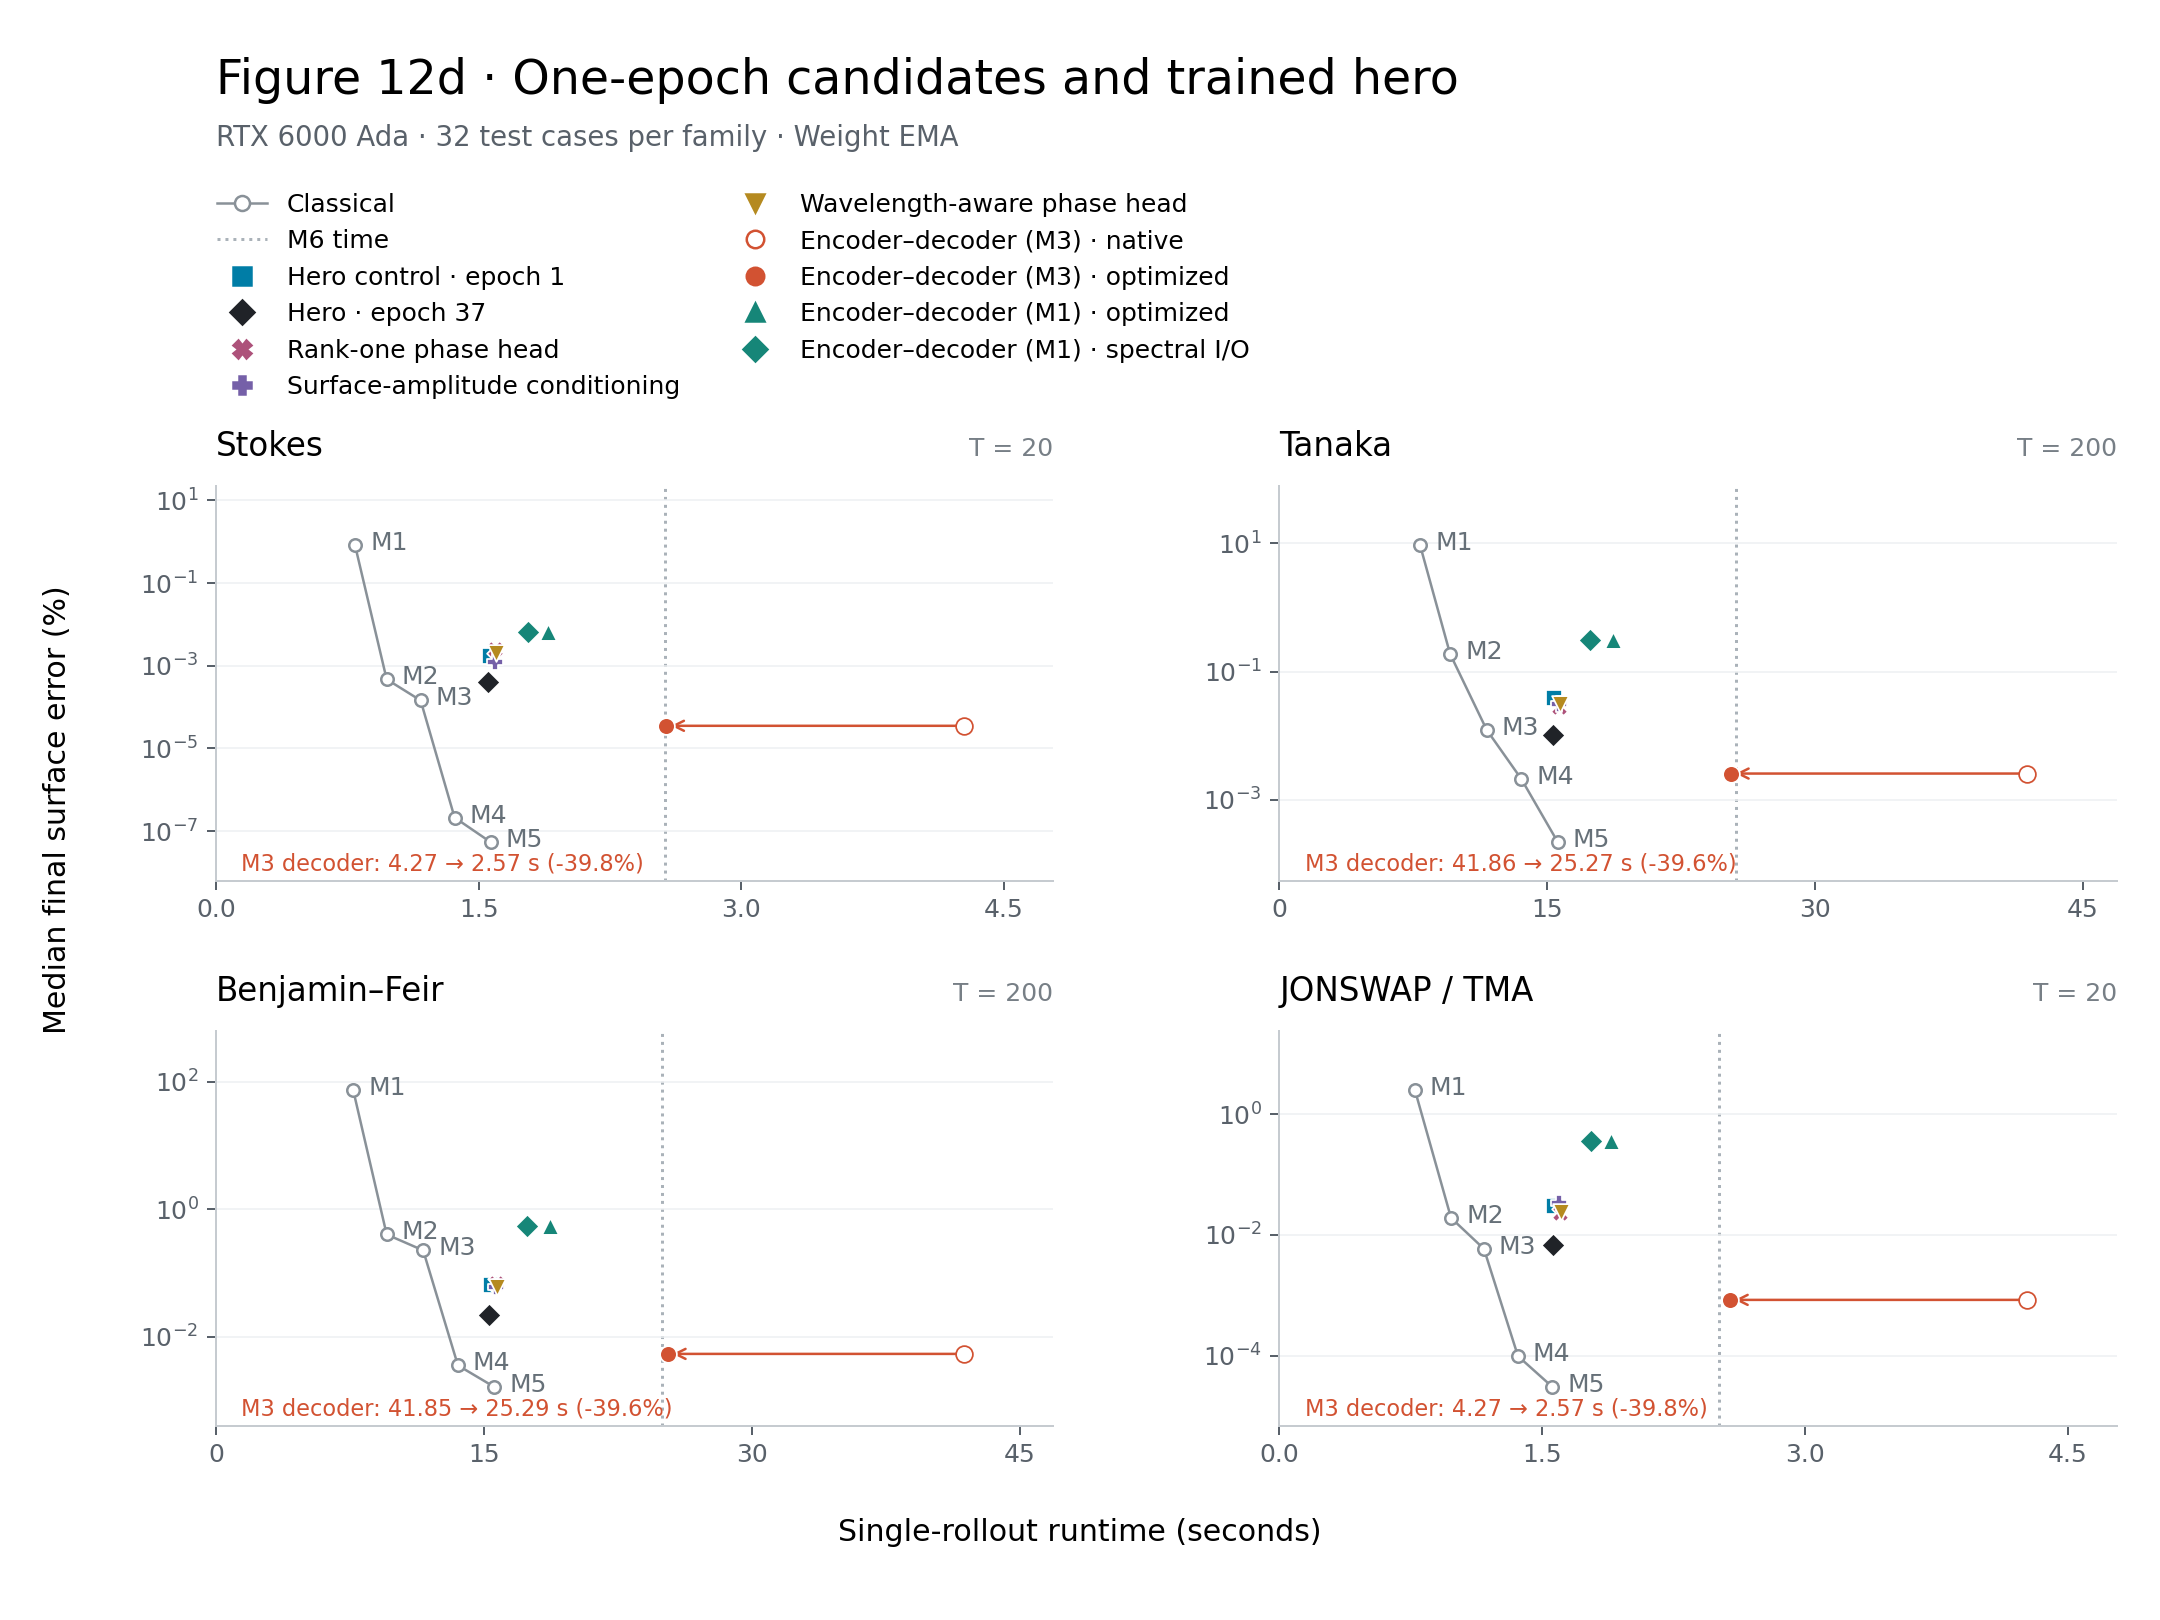
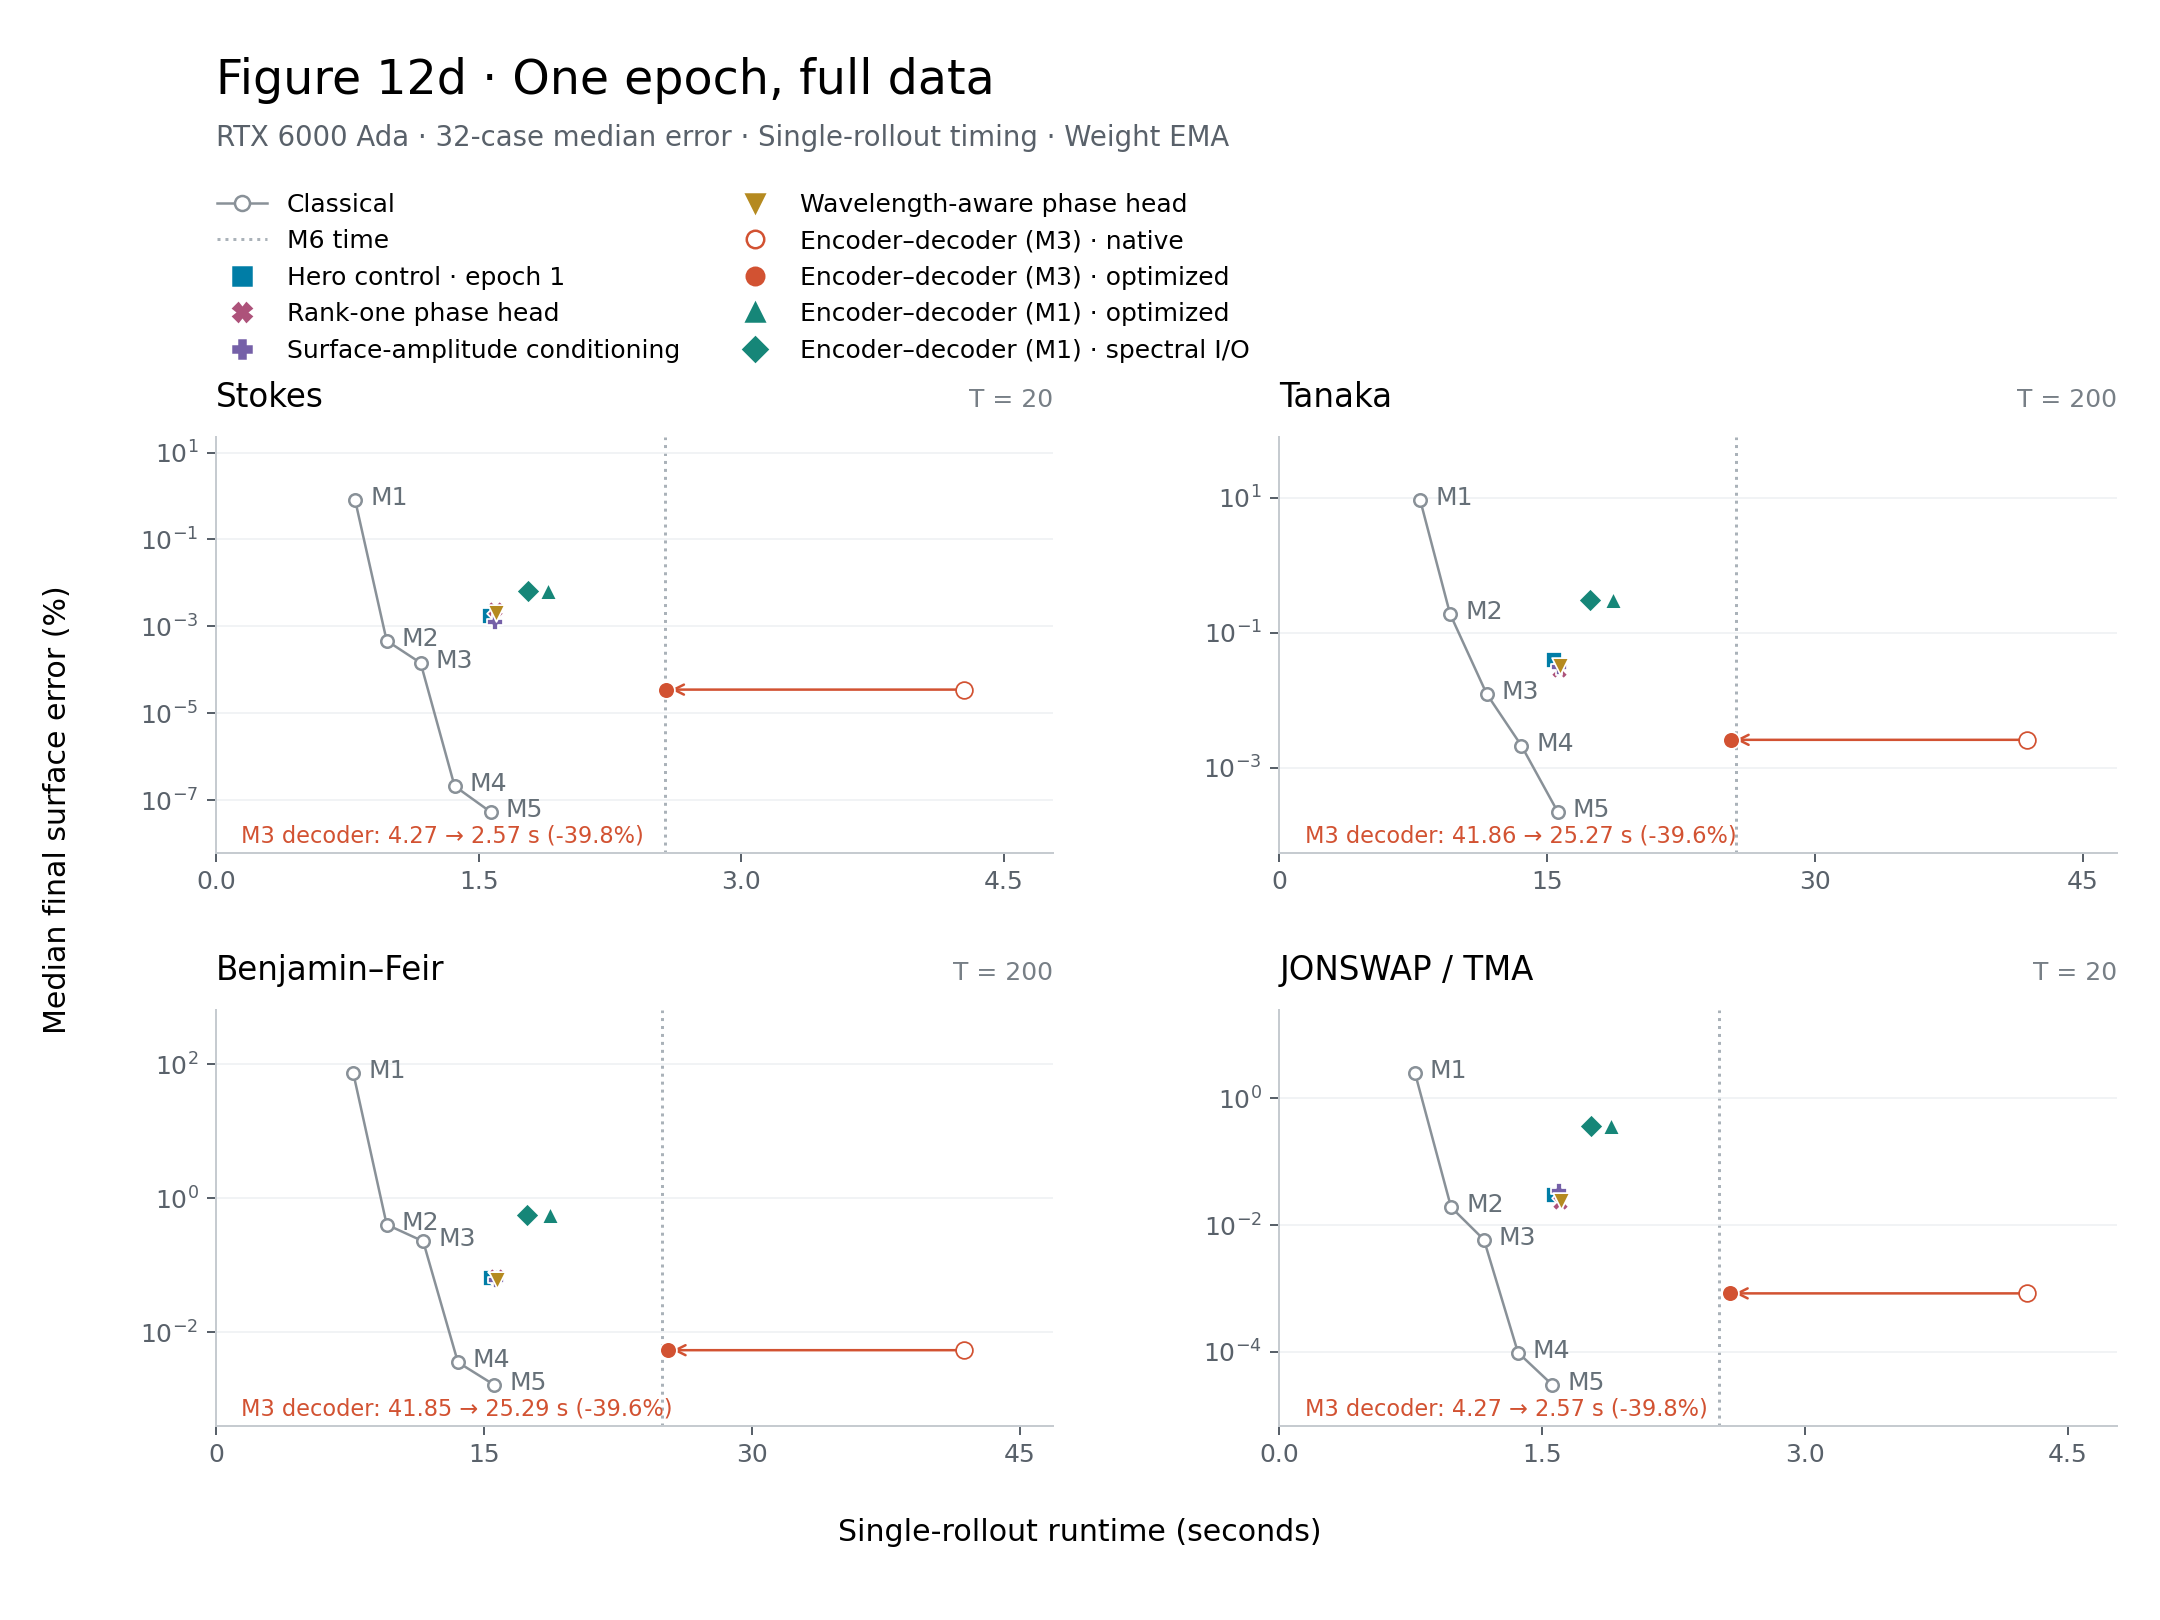
Clarify median accuracy and one-epoch hero in Figure 12d

diff --git a/paper-plots/plot_neural_advantage.py b/paper-plots/plot_neural_advantage.py
@@ -385,11 +385,6 @@ if __name__ == "__main__":
             completed.append((json.loads((control / "all_summaries.json").read_text()),
                               json.loads((phase_run / "control_timing.json").read_text()),
                               "Hero control · epoch 1", "#007da6", "s", phase_method))
-            hero_run = ROOT / "outputs/c27_nested_b16_ema_low_lr_ep60_20261014"
-            hero_timings = json.loads((control / "single_rollout_timings.json").read_text())
-            hero_timings["families"].update(json.loads((hero_run / "fig12_epoch7_timings.json").read_text())["families"])
-            completed.append((json.loads((hero_run / "eval_epoch37_weight_ema/all_summaries.json").read_text()),
-                              hero_timings, "Hero · epoch 37", "#202328", "D", phase_method))
             completed.append((json.loads((phase_run / "eval_weight_ema_standard/all_summaries.json").read_text()),
                               json.loads((phase_run / "single_rollout_timing.json").read_text()),
                               "Rank-one phase head", "#ad527a", "X", phase_method))
@@ -493,7 +488,7 @@ if __name__ == "__main__":
         })
         fig, axes = plt.subplots(2, 2, figsize=(12, 9) if args.recent_one_epoch
                                  else (17, max(9.5, 2.5 + 1.2 * len(completed))))
-        fig.subplots_adjust(left=0.10, right=0.98, top=0.70 if args.recent_one_epoch else 0.83,
+        fig.subplots_adjust(left=0.10, right=0.98, top=0.73 if args.recent_one_epoch else 0.83,
                             bottom=0.12, hspace=0.38, wspace=0.27)
         for ax, (family, title) in zip(axes.flat, FAMILIES, strict=True):
             timing = neural["families"][family]
@@ -581,11 +576,12 @@ if __name__ == "__main__":
             ax.grid(axis="y", lw=0.6)
             ax.set_title(title, loc="left", fontsize=13, pad=12)
             ax.set_title(f"T = {timing['horizon']:g}", loc="right", fontsize=10, color="#777f86", pad=12)
-        fig.suptitle("Figure 12d · One-epoch candidates and trained hero" if args.recent_one_epoch
+        fig.suptitle("Figure 12d · One epoch, full data" if args.recent_one_epoch
                      else "Figure 12b · One epoch, full data",
                      x=0.10, y=0.965, ha="left", fontsize=19)
         fig.text(0.10, 0.91 if args.recent_one_epoch else 0.923,
-                 "RTX 6000 Ada · 32 test cases per family · Weight EMA", color="#59616a", fontsize=11)
+                 "RTX 6000 Ada · 32-case median error · Single-rollout timing · Weight EMA" if args.recent_one_epoch
+                 else "RTX 6000 Ada · 32 test cases per family · Weight EMA", color="#59616a", fontsize=11)
         if args.recent_one_epoch:
             fig.legend(handles=[
                 Line2D([], [], color="#899198", marker="o", mfc="white", lw=1, label="Classical"),

diff --git a/experiments/experiments-2026-10-19.md b/experiments/experiments-2026-10-19.md
@@ -64,3 +64,4 @@
 | 2026-10-19 | 11:21 | Weak-Stokes Hadamard finite-difference floor: CPU M6 JVP audit | Check whether the physical surface-RMS floor.001 makes forward secants disproportionately biased for weak waves before changing the regularizer or spending a training epoch. | Seed202610193 selected256 TRAIN Stokes from4096 random metadata rows, then three lowest-RMS rows171216/73094/2855190 and three near-median rows2486349/3652121/2727986. FP32-rounded states promotedFP64,N1024,L2pi,true depth,M6 pad8,production H1 random probe and P128 energy. Compared forward/central differences at eps.003/.001/.0003 with exact eta-JVP, preserving full internal q/B/V. At.003 normalized forward bias1.3382e-5 to9.1672e-5, central3.0202e-10 to1.1142e-8; forward bias decreases linearly. Exact-JVP continuum-identity floor1.8698e-12 to2.3499e-8. | Ratios use sqrt(projected forcing H1 energy+1e-12), not percentages or squared losses. Weak RMS.0005545-.0005581 versus controls.0022235-.0022580; eps.003 perturbations.538-.541% versus.3% of surface RMS. All finite/positive depth; direction mean<=2.51e-19, relative RMS error<=2.22e-16; forcing-energy/floor9.27e5-6.16e8. Groups not depth-matched. Source audit confirms current model HD forward isFP64 after FP32 initial-state rounding; normalization/packed path do not recast perturbationsFP32. | CPU58-59,threads1,CUDA hidden; numerical body4.008s, under00:01 within02:00 cap. No model restore, files, GPU, cloud or training changes. | DO NOT QUEUE central-HD from this evidence: true-M6 secant bias is small with no demonstrated weak-amplitude floor. Prior model-specific JVP/secant sensitivity remains a separate question, not disproved. Leave the live wavelength-head epoch unchanged. |
 | 2026-10-19 | 13:24 | Wavelength-aware phase head: completed full-data epoch1 and EMA128 | Test whether a learned kh-dependent symmetric correction can reduce Stokes speed bias without changing the analytic baseline or adding a family-specific loss. | c27_phase_wavenumber_scratch1_20261019 completed. Candidate/control paired terminal eta GM S/T/BF/J1.427596/.904409/.848921/1.049567; wins13/19/19/11 of32. Eta medians%.002052953/.031757379/.060941737/.024105728; p95%.024146299/.202436850/.198079065/.205388563. Pooled eta/xi1.035648/1.044774, trajectory eta/xi1.039504/1.045119, Fourier-phase1.059577. Stokes aligned-shape.909372 but translation1.736946 and Fourier-phase1.685838; weak-half phase2.059981. Initial absolute speed-bias1.337712,11wins. Candidate/M3 pooled eta2.040010,54/128wins. | All128 IDs/depths/times/full reference eta/xi/q exactly match control and M2/M3; all predictions finite, all references valid, minimumfluiddepth.011970280823. Export primaryEMA epoch1,.995/start589836; fresh initialization,40417parameters, full splits, bothEMAs, unchanged loss recipe. Independent Stokes audit agrees. No raw rollout or longer budget. | Training/validation/export runtime7838.96s,02:11 rounded; automatic EMA128 launcher session95117 exited0 by13:18. CPU full-cohort audit bounded02:00 and Stokes10.18s. GPU1/cloud untouched. | DO NOT PROMOTE: Tanaka/BF paired gains do not offset worse Stokes phase and slightly worse aggregate accuracy. Lower JONSWAP median conceals paired regression. Keep hero37 and the existing one-epoch control; no further global phase-head training queued. |
 | 2026-10-19 | 13:24 | Wavelength-head timing and Figure12d hero comparison | Plot completed candidates at their measured cost, and restore the trained hero comparison explicitly requested by the user. | New head B1seconds S/T/BF/J1.597383/15.700628/15.750868/1.604152, versus control1.563988/15.364469/15.374165/1.566570:2.1-2.5% slower. Added head to12d with its own primaryEMA32-case medians. Added Hero epoch37 black diamonds with median eta%.000410577/.010114851/.021954294/.006763847 and the same existing architecture timings used by12c,1.555725/15.307573/15.304879/1.560811s. Renamed one-epoch point Hero control epoch1 and title to distinguish the training budgets. | New timing: idle AdaGPU0,N1024,dt.01,four GL2iterations,fullT20/T200,fused-nested/context spectral-carry/local; one warmup plus one synchronized measured rollout per family, allfinite/positive depth, setup/compile/transfers excluded. Hero timing reuses control-path S/T and epoch7 BF/J measurements as12c does; no claim of fresh epoch37 timing. M1-M5 and validM6pad2 runtime line retained. Six-row legend/title inspected; Ruff/Pyright clean. | Timing session23200 exited0 by13:21 within10:00cap; CPU renders under00:01. No repeated benchmarks, new training or other figure changes. | UPDATED existing12d PNG/PDF and plotter only. New head remains a measured negative experiment. Hero37 stays selected; both hero training budgets are now visible. |
+| 2026-10-19 | 13:38 | Figure12d aggregation and one-epoch hero correction | User expected family medians, and correctly remembered the original one-epoch hero beating M3 on the single Tanaka case shown in12/12c. Resolve the conflicting statistics without changing weights or selecting favorable examples. | Traced original hero epoch1 to Oct12 B16 seed0; the long run continued that state. Tanaka fixed case3686647: hero/M3 .152511488%/.548683124%; same32-case medians .038875870%/.012372829%. Figure12b already used medians;12d inherited them while12/12c used fixed cases. Removed the mistakenly added epoch37 series from12d, retained all one-epoch candidates and M1-M5/M6 timing, and explicitly labeled32-case median error versus single-rollout timing. | A temporary fixed-case render was reverted after user explicitly chose medians. Final plot uses each model's own saved primary-EMA summaries and measured B1 latency, no changed checkpoints, new evaluation, synthetic errors or GPU work. README documents the distinction; rendered PNG inspected. Earlier13:24 log incorrectly described the user's hero request as the trained hero; this row corrects that interpretation. | CPU rendering under00:01; no training or timing run. | CORRECTED12d PNG/PDF/source/docs. Keep median accuracy as requested; original12/12c still contain their historical fixed-case values and must not be presented as medians. |

diff --git a/paper-plots/README.md b/paper-plots/README.md
@@ -608,6 +608,24 @@ this figure. The old subset40 PNG/PDF remain separate historical artifacts.
 UV_CACHE_DIR=/tmp/dno-uv-cache uv run --no-sync paper-plots/plot_neural_advantage.py --one-epoch
 ```
 
+### 12d-one-epoch-full-data
+
+[PNG](figures/12d-one-epoch-full-data.png) / [PDF](figures/12d-one-epoch-full-data.pdf).
+Recent full-data, one-epoch weight-EMA candidates on Ada. Every accuracy point
+is the median terminal surface error over the same 32 cases per family;
+the horizontal coordinate is measured warm single-rollout runtime.
+`Hero control · epoch 1` is the original Oct12 B16 checkpoint, not the extended
+epoch37 model. No longer-trained checkpoints enter this comparison.
+
+The original Figures12/12c used the particular timed case's error, a different
+statistic. For Tanaka, the one-epoch hero/M3 errors are 0.152511%/0.548683% on
+that case but 0.038876%/0.012373% as family medians. Do not infer a family-wide
+accuracy win from the original single-case plot.
+
+```sh
+UV_CACHE_DIR=/tmp/dno-uv-cache uv run --no-sync paper-plots/plot_neural_advantage.py --recent-one-epoch
+```
+
 ### 13-model-roofline
 
 [PNG](figures/13-model-roofline.png) / [PDF](figures/13-model-roofline.pdf).

diff --git a/EXPERIMENTS.md b/EXPERIMENTS.md
@@ -33,11 +33,11 @@ could not be recovered at all are in
 
 ## Dated logs
 
-101 files, 1748 rows.
+101 files, 1749 rows.
 
 | Date | Rows | File | Size |
 | --- | --- | --- | --- |
-| 2026-10-19 | 62 | [`experiments/experiments-2026-10-19.md`](experiments/experiments-2026-10-19.md) | 95 KB |
+| 2026-10-19 | 63 | [`experiments/experiments-2026-10-19.md`](experiments/experiments-2026-10-19.md) | 97 KB |
 | 2026-10-18 | 48 | [`experiments/experiments-2026-10-18.md`](experiments/experiments-2026-10-18.md) | 72 KB |
 | 2026-10-17 | 11 | [`experiments/experiments-2026-10-17.md`](experiments/experiments-2026-10-17.md) | 24 KB |
 | 2026-10-16 | 12 | [`experiments/experiments-2026-10-16.md`](experiments/experiments-2026-10-16.md) | 23 KB |
